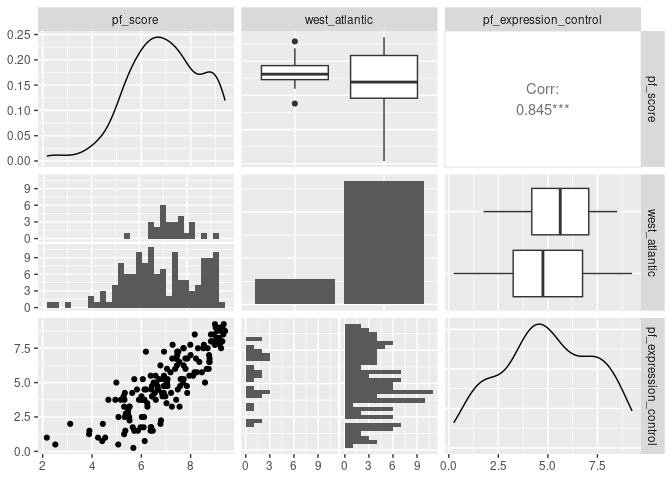
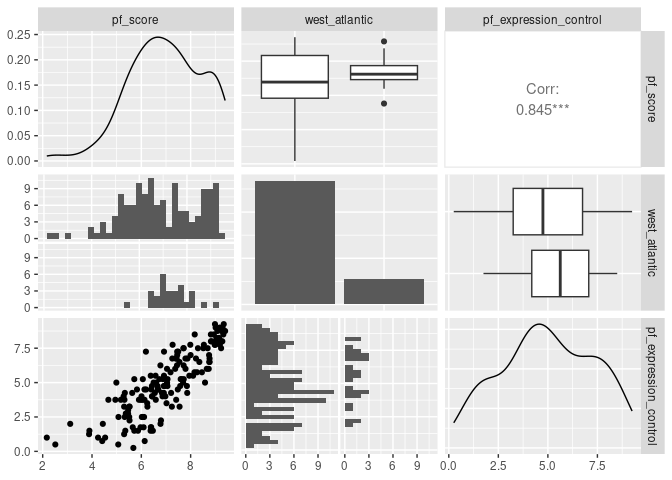
! added

diff --git a/day01-quantitative-explanatory/activity03.md b/day01-quantitative-explanatory/activity03.md
@@ -63,7 +63,7 @@ library(tidymodels)
     ## ✖ dplyr::filter()  masks stats::filter()
     ## ✖ dplyr::lag()     masks stats::lag()
     ## ✖ recipes::step()  masks stats::step()
-    ## • Use suppressPackageStartupMessages() to eliminate package startup messages
+    ## • Use tidymodels_prefer() to resolve common conflicts.
 
 ``` r
 library(tidyverse)
@@ -481,7 +481,7 @@ variables have only two levels. Fortunately, we can create our own.
 ``` r
 hfi_2016 <- hfi_2016 %>%
   mutate(west_atlantic = if_else(
-    region %in% c("North America", "Latin America & the Caribbean"),
+    ! region %in% c("North America", "Latin America & the Caribbean"),
     "No",
     "Yes"
   ))
@@ -527,8 +527,8 @@ tidy(qual_mod)
     ## # A tibble: 3 × 5
     ##   term                  estimate std.error statistic  p.value
     ##   <chr>                    <dbl>     <dbl>     <dbl>    <dbl>
-    ## 1 (Intercept)              4.38     0.213     20.5   1.57e-46
-    ## 2 west_atlanticYes        -0.102    0.167     -0.612 5.41e- 1
+    ## 1 (Intercept)              4.27     0.150     28.5   2.30e-64
+    ## 2 west_atlanticYes         0.102    0.167      0.612 5.41e- 1
     ## 3 pf_expression_control    0.540    0.0273    19.8   1.01e-44
 
 When looking at your `ggpairs` output, remember to ask yourself, “does
@@ -707,10 +707,10 @@ tidy(int_mod)
     ## # A tibble: 4 × 5
     ##   term                                   estimate std.error statistic  p.value
     ##   <chr>                                     <dbl>     <dbl>     <dbl>    <dbl>
-    ## 1 (Intercept)                               5.72     0.459      12.5  2.76e-25
-    ## 2 west_atlanticYes                         -1.60     0.484      -3.30 1.18e- 3
-    ## 3 pf_expression_control                     0.296    0.0789      3.75 2.45e- 4
-    ## 4 west_atlanticYes:pf_expression_control    0.275    0.0838      3.28 1.26e- 3
+    ## 1 (Intercept)                               4.12     0.153      27.0  4.42e-61
+    ## 2 west_atlanticYes                          1.60     0.484       3.30 1.18e- 3
+    ## 3 pf_expression_control                     0.571    0.0281     20.3  6.96e-46
+    ## 4 west_atlanticYes:pf_expression_control   -0.275    0.0838     -3.28 1.26e- 3
 
 Note that I shortened the model statement using
 `qualitative * quantitative`, but this can sometimes be confusing to
@@ -753,7 +753,7 @@ this to our candidate model (`int_mod`).
 
 ``` default
 # null model
-null_mod <- lm_spec %>% 
+null_mod <- lm_spec %>%
 fit(response ~ 1, data = data)
 
 anova(
